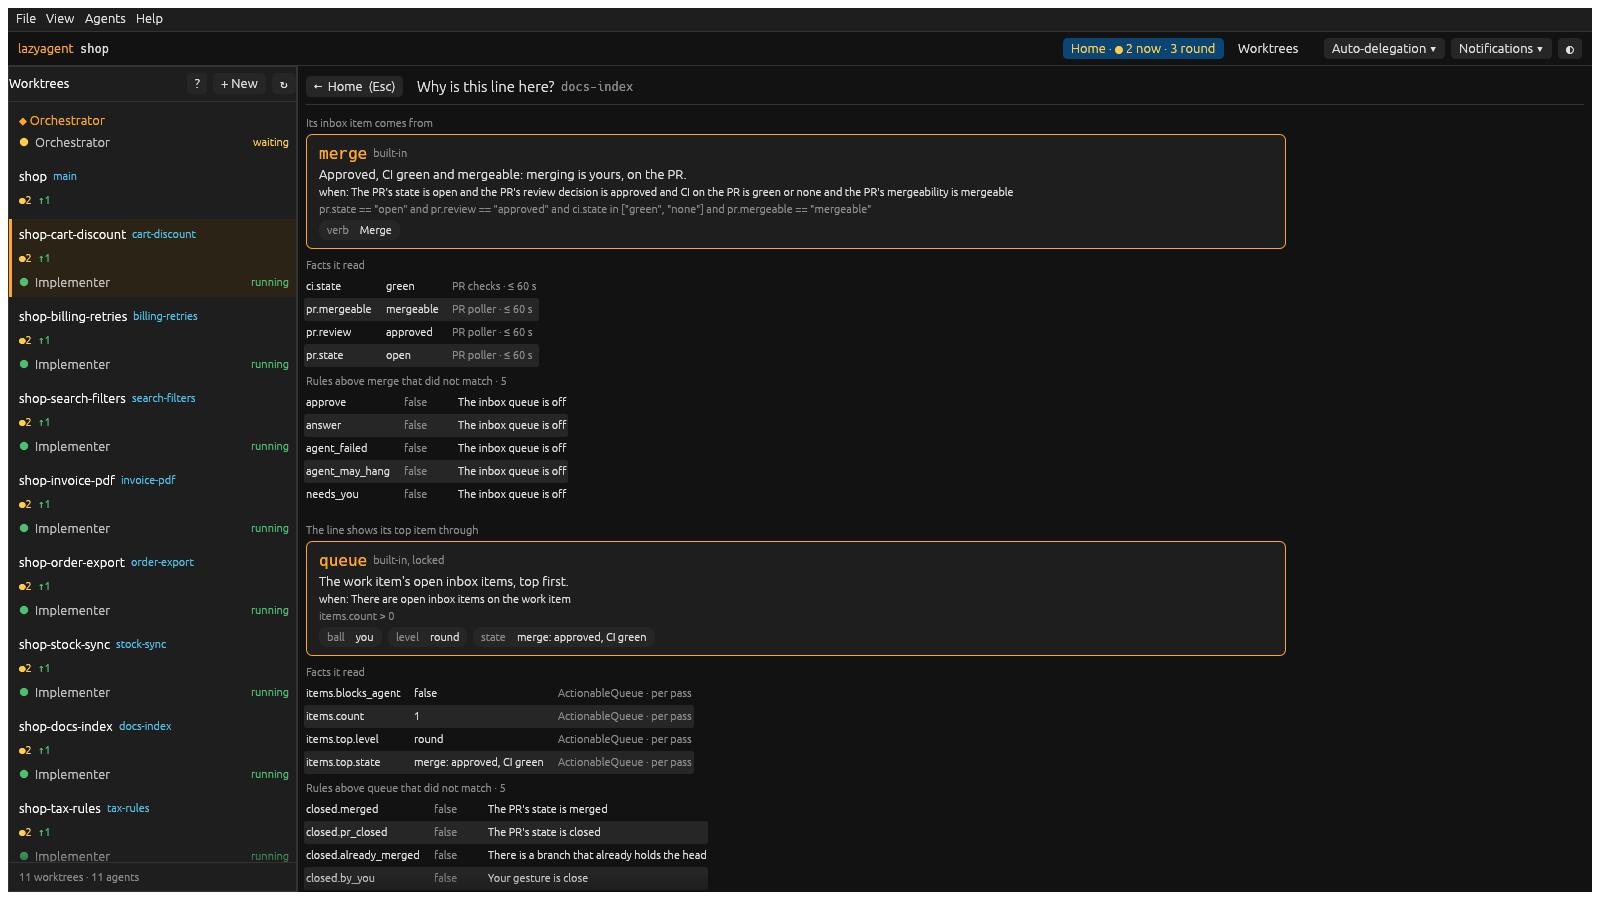
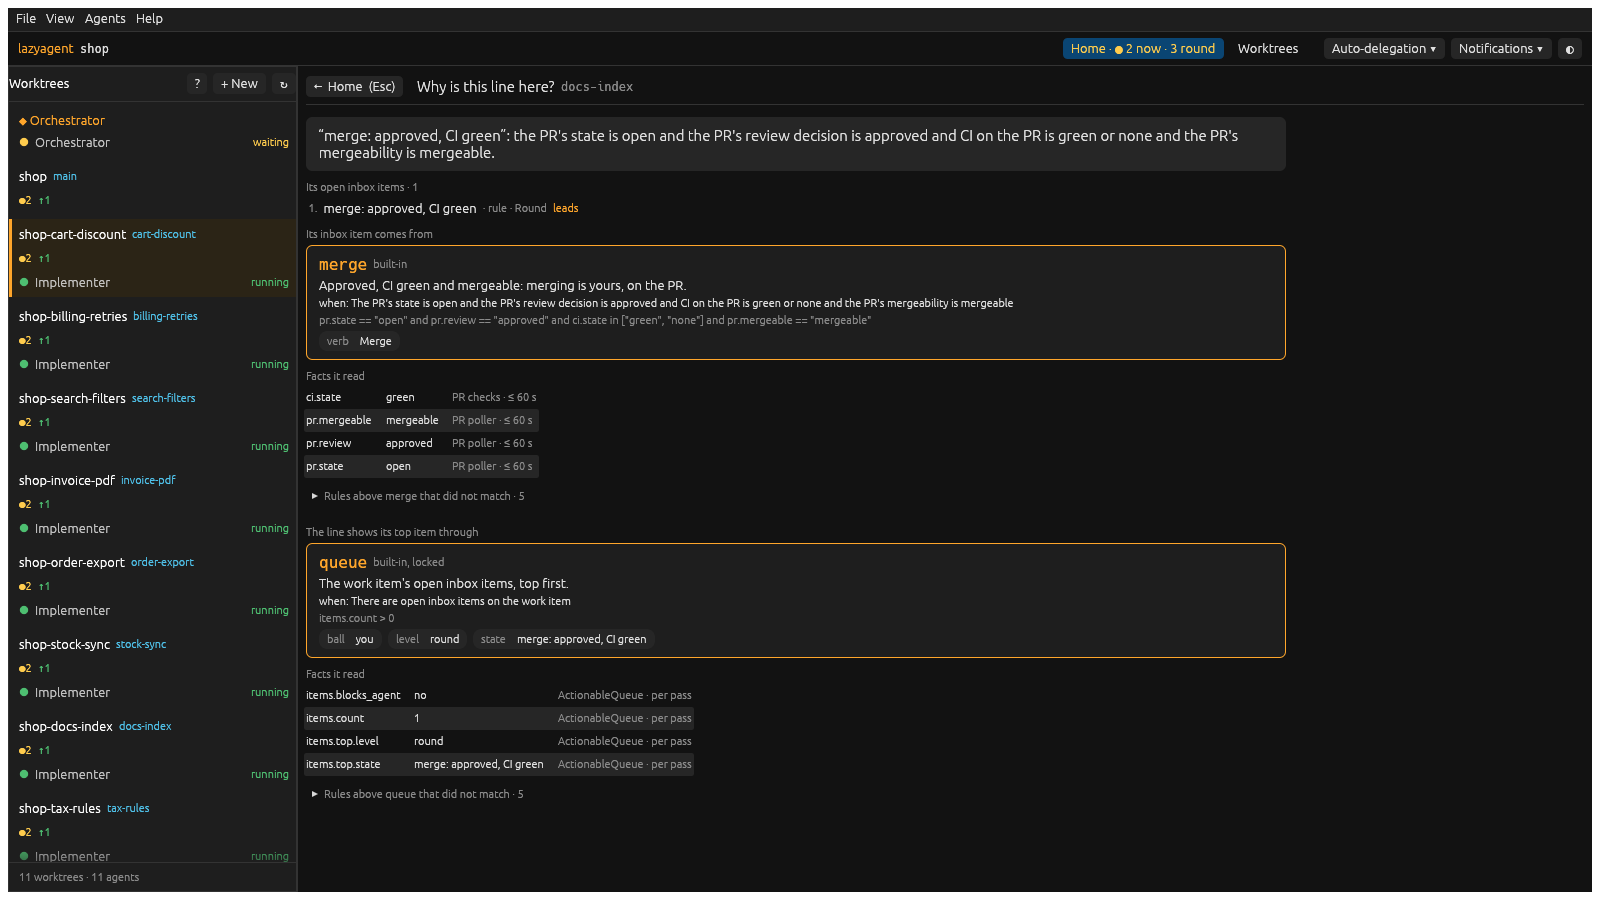
docs: I4f as landed, the Home guide's key changes, screenshots

Changed region(s): [[0.1875, 0.1244, 0.7812, 0.56], [0.1875, 0.5911, 0.4375, 0.9956]]

diff --git a/docs/design/inbox-plan.md b/docs/design/inbox-plan.md
@@ -23,6 +23,7 @@
 | I8a | `inbox-i8a-github-issues` | **MVP, alongside I2.** `TrackerAdapter` protocol and registry (entry point `lazyagent.trackers`), status mapping, polling with cache/ETag/caps, credentials by env/keyring, `trackers.toml` (global + per repo); the **GitHub Issues** adapter (via `gh`) with `fetch` and `assigned_to_me`; row enrichment and the "N not started" counter from I1's rows; edge-triggered inbox rules wired into I2's queue once it lands (§7b) | With GitHub Issues on, a branch `fix-123-…` whose issue gets the label mapped to "returned" yields a Round item; an issue assigned to the user with no branch adds to "N not started"; with no adapter configured, `status_list` output is byte-identical |
 | I8b | `inbox-i8b-jira` | **MVP, alongside I3.** The **Jira** adapter, complete and marked experimental: Jira Cloud REST API v3, JQL search with pagination, issue status and transitions (read-only), `assigned_to_me` by JQL, `Retry-After` on 429; tests with recorded fixtures (transitions, JQL search, pagination, 429) | Against the fixtures, a status change into a mapped "returned" status yields one Round item and leaving it clears it; a 429 backs off and keeps the last good value; the adapter is labelled experimental until checked against a real instance |
 | I4e | `inbox-i4e-home-ux-fixes` | **Landed** (§8). Home UX fixes from a developer UX review and the owner's answers: approvals (`approval_answer`, y / n) and free-text questions (`question_answer`) answered on the line, a brief's 1-4 + Ctrl+Enter on its expanded row; ages from the last real activity; ⇧ keys, zone jumps, Tab, Esc, a pinned key bar, Undo (5 s) and real confirmations; "N round (+M next)"; the orchestrator strip; imperative labels | An approval is answered with y from Home only while its prompt is on screen; a stalled branch committed 3 days ago reads 3d after an engine restart; ⇧X closes and stops the agent and says so first |
+| I4f | `inbox-i4f-ux-fixes` | **Landed** (§8). Home fixes from a second UX review (accepted by the owner) and an I7 bug: a deep item under a quicker top one counts in To sit down with (a ghost line); ages from real activity, never the engine's start; stale rows folded with their dirty files; `a` approve / `⇧D` deny (with Undo), `y` explain and `n` notes everywhere, a contextual key bar; the Why? view answers in one sentence; a busy head's red runs read on their own, other providers' checks named; parked rows say until when | A changes requested under a red CI shows in To sit down with and the counts agree; a Merge approved 20 days ago reads 20d; a red `label-gate` run older than the repo's latest 100 runs gets its log |
 | later | — | **Multi-repo Home** (one Home over every repo's engine; the owner's I4e answer (a): not in I4e); rounds as notifications at cut points, Focus mode, backpressure (Round > 7 stops new work), ntfy notifier; **opt-in auto-delegation of stalled items to the owner agent** (0012 A3 trimmed, §7; may come as early as I4, Q-B33); hook nudge for briefs (Q-B34 c); opt-in compiled-in wake rules for the orchestrator (§5c). Never in the core: an always-on autonomous manager loop | — |
 
 Each phase is its own branch from up-to-date `develop`, merged with `--no-ff` once `uv run pytest` and (for desktop phases) `cargo fmt --check`, `cargo clippy --all-targets -- -D warnings` and `cargo test` are green. Every phase updates the docs it changes (engine-split §4d/§4e/§4g, ui-plan §3b, desktop-app D4, this plan §8, proposal status).
@@ -708,6 +709,23 @@ Q-B34. Workers get no system prompt today; only the orchestrator does (`orchestr
   - Not done: `WorkItems.link` scans every record for every row (feeders' tasks); an index there is the next step if feeders grow.
 - **`__version__` without importlib.metadata.** `hatch_build.py` puts `lazyagent/_version.py` in every wheel from a temp file (the platform wheels build from a read-only mount, where hatch's own `version` hook failed), and writes it into `src/` for an editable install (gitignored); `importlib.metadata` stays the fallback for a tree no build ran in. `lazyagent --version` is new. Tests install a wheel and an editable tree into fresh venvs and check `__version__`, the dist metadata and `--version`. `import lazyagent`: **51 → 19 ms** wall (a bare interpreter: 12-17 ms); `-X importtime` cumulative 30 → 0.2 ms. The MCP server's start stays ~450 ms: the `mcp` package is most of it.
 - **Timing tests under load.** `test_it_starts_fast` takes the median of 7 runs per round, up to 5 rounds; a round passes under 150 ms (times the CI factor) or under 3x a bare interpreter timed in the same round. At load 30 on 20 cores the hook took ~185 ms, 1.6x bare (the old best-of-3 under 150 ms failed); a hook importing textual takes 14x and fails every round. `tests/bench.py` holds what the timing tests share: the CI factor and an allowance per round, the larger of it and how slow the machine runs right now (a fixed workload against its idle time). The rules bench and the new status benchmarks use it.
+
+**I4f** (`inbox-i4f-ux-fixes`; Home fixes from a second developer UX review, whose recommendations the owner accepted, and an I7 bug; engine and desktop):
+
+- **A deep item under a quicker one.** A row's `needs_you` gains `items` (every open item, top first: `id, kind, level, state, since`). `counts.deep` counts the inbox rows with a deep item, the top one or under it (`status.has_deep`), so a changes requested under a red CI is counted; `actionables_list` still counts items. Home draws it as a ghost line in To sit down with (`↳ Address review · tax · changes requested · under its Fix CI in the Round`, dimmed, not a key stop; a click opens the line), and its header counts it (`Home::deep_count`, the engine's number). "2 items" reads `+ changes requested`; the expanded line lists every item and says which one leads.
+- **Ages from real activity.** A PR item (`ci`, `review`, `conflict`, an item rule's `rule`: the built-in Merge) first seen on the pass where the row's PR info is new (the engine's start, the poller's first answer) takes the row's `activity_at` as its `since` (`ActionableQueue.found_at`), not now; one that happens while the engine runs still dates from then. A row whose fingerprint changes only because PR info came in keeps `activity_at` as its `changed_at` (`_Seen.pr`), a first-seen row seeds from it too, and a parked row's age is its park's `at`. A detached worktree gets its head commit's time (`git show -s --format=%ct`, once per sha).
+- **Stale rows** stay in `status_list {include_done}` as before and gain `dirty` (the worktree's uncommitted files, once git status is known). Home folds them into `N stale · M uncommitted files ▸` at the very end of In flight (after "done today"), the state reading `no activity · 13 uncommitted files`; they never vanish.
+- **Keys.** `a` approves and `⇧D` denies an approval (`a` only when not after `g`); `y` is always explain and `n` always notes. A deny waits `UNDO_FOR` (5 s) client-side, with the Undo bar (`Denying pdf: rm -rf build/ …  Undo (Ctrl+Z)`), then sends `approval_answer {allow: false}` (`State::tick_deny`; another gesture's Undo sends a waiting deny first). The key bar is one truncated line of its own with only the selected line's keys (at most 8, `line_keys`) and `? all keys`; its hover lists all of them. `concepts.toml` writes letters as typed (`x`, not `X`), the `answer` action says Enter expands the line (approve or answer there) and `close` that it stops the agent; the Park card and Undo say so too.
+- **Why? for the user.** `rules_explain` gains `answer`, one sentence with its values (`“no activity”: the time since the last sign of work (2 d 6 h) is over the stalled threshold (24 h).`; for the queue, which item leads and what else is open), and each fact `shown` (`doc.shown`: durations as `2 d 6 h` / `24 h`, times as `3 h ago`, enums without underscores, unknown). `lazyagent status --why` prints the answer first. The view shows the answer on top, then the items with the leader marked, then the rule card; "Rules above … that did not match" is folded with its unknown count, unknown ones (and the user's) first.
+- **I7: CI red with no log.** On a busy repo the repo's latest 100 runs are newer runs of other branches and of a quick workflow on the head, so the head's red runs fell out of the window and every CI line had `run: null`. Each open PR whose checks are red now gets its own read, `actions/runs?head_sha=<sha>` with an ETag, up to `HEAD_PAGES` (3) pages of 100, at most `MAX_HEAD_FETCHES` (5) heads a poll (the per-minute cap still holds); its runs join the window's (`ActionsHub.all_runs`) and the latest run per workflow on the head still decides, so a red `label-gate` and a red evals run are found next to newer green runs. A head no longer red is dropped. `ci_log_summary {key}` gains `checks`: the failing checks that are not Actions runs (`actions.other_checks`; the provider from the URL's host: CircleCI, Buildkite, …, "a GitHub App (not Actions)", "a commit status with no link"), and with no red Actions run its error reads `no Actions log: check e2e-suite from CircleCI`. Home asks for it on a CI line with no run too (once, as run `(0, 0)`) and shows each check with "open the check".
+- **Delegate only to a live agent.** "Delegate to its agent (d)" shows only when the row has a live agent; otherwise "Restore agent and delegate" (a restorable entry there: `restore_agents {ids}`, then the delegation) or "Spawn an agent for this" (`spawn_agent`, then the delegation; the engine sends the line once the agent's turn is over). `d` on such a line says which button to use and opens the line (it never spawns on one key).
+- **In flight.** A running agent's line reads `working · <its last status_report, else its notes' line>`; the age is only in the age column. A detached head is named by its worktree's directory (desktop `row_name`, the CLI's `item_name`). The orchestrator's ball: the catalog's `ball_text` reads `orchestrator` for `claim`, `hold` and `held` (`doc.ORCHESTRATOR_RULES`; the row's `ball` stays `agent`), so How it works says what the screen says; a delegation still reads `agent`.
+- **Parked** rows say until when (`parked indefinitely`, was `parked`; `parked until 18:00`; `parked until CI ends`) and, while an item is still the user's, `· needs you: conflict with base`.
+- **Minor.** Merge's first button is "Open PR to merge (p)" (the plain PR button goes); How it works frames its screenshots (a matte, a shadow, a "screenshot" tag, slightly dimmed) and its state tables fit four columns at any width (the key column was cut at 1100 px); timeline entries are not added twice after an engine restart (`overlay._repeat`: the same commit ref, or the newest `ci` / `review` / `ball` / `state` entry by the same actor saying the same); a ball change reads `with the agent (was stalled): working`; "Orchestrator not running" has "Start the orchestrator" (`spawn_agent {kind: orchestrator}`), and the pass hint wraps on a line of its own.
+- Schemas: `status_row.needs_you.items`, `status_row.dirty`, `counts.deep`'s meaning, `ci_log_summary.result.checks` and its error, `rules_explain.result.answer` and the facts' `shown`. Golden fixtures changed deliberately: `status_list/{rows, fields, include_done}`, `status_gesture/{close, park_the_work_item_indefinitely}`, `rules_explain/{merge, a_global_rule_removes_merge}`, `ci_log_summary/{a_red_run, not_red}`, `rules_catalog/builtin`. Desktop `proto`: `NeedsYou.items` (`NeedsYouItem`), `StatusRow.dirty`, `CiLogSummary.checks` (`OtherCheck`), `RulesExplain.answer`, `ExplainFact.shown`, all optional.
+- Screenshots: [Home dark 1600](desktop-screenshots/i4f-home-dark-1600.png), [Home light 1100](desktop-screenshots/i4f-home-light-1100.png), [the CI line with no Actions log, dark](desktop-screenshots/i4f-ci-expanded-dark-1600.png) and [light](desktop-screenshots/i4f-ci-expanded-light-1100.png), [a deny's Undo](desktop-screenshots/i4f-deny-undo-dark-1600.png), [Why?](desktop-screenshots/i4f-why-dark-1600.png), rendered by the `home_i4f_screenshots` test; the How it works screenshots and the page's own shots regenerated.
+- Tests: `tests/engine/test_home_ux_review.py` (18: the deep count and items, a parked row's deep item not counted, a Merge found at the start dated from activity, an item that happens later dated then, late PR info keeping an in-flight age, a park's age and text, stale `dirty`, a detached head's name and age, a busy head's runs read on their own across 3 pages with a 304 after and dropped when green, the projection's red heads and a log summary naming both runs, a commit status and another provider's check, providers by host, timeline dedupe after a restart in the overlay and through a restarted projection, the Why answer for a stalled row and for the queue, durations and shown values, the orchestrator's ball text), `tests/engine/fake_gh.py` answering `head_sha=` reads in pages. Desktop: `tests/i4f.rs` (9, against `Conn::fake`: the ghost line and its count, the stale fold, a CI red with no Actions run, restore- and spawn-then-delegate, the Why answer and the folded rules, Merge's first button and a parked line, a detached head, starting the orchestrator, the screenshots), the approval test rewritten for `a` / `⇧D` with the deny's Undo and `y` / `n`, the key bar test for the contextual bar, the page's key test for letters as typed.
+- Not in I4f (out of scope): sidebar changes, PR titles instead of slugs, multi-repo Home. Not done: per-item dismiss buttons in the expanded item list (the line's own buttons act on its top item); the orchestrator queue folded to "N in its queue".
 
 ---
 

diff --git a/docs/guides/how-lazyagent-works.md b/docs/guides/how-lazyagent-works.md
@@ -108,8 +108,8 @@ Keep your inbox to what you can act on today.
 
 - **Park  z**: 1 h, tomorrow, a week, until something changes, indefinitely.
 - **Label  l**: Who has the ball and why: others · QA.
-- **Close  ⇧X**: Done or dropped. Never touches the worktree, branch or PR.
-- **Undo**: x, z, d and ⇧O show Undo for 5 s (Ctrl+Z).
+- **Close  ⇧X**: Done or dropped; stops its agent. Never touches the worktree, branch or PR.
+- **Undo**: x, z, d, ⇧O and ⇧D (deny) show Undo for 5 s (Ctrl+Z).
 
 ![The park menu: until when, for this item or the whole work item.](../../desktop/crates/app/assets/how/park.png)
 
@@ -137,8 +137,8 @@ Each line's state comes from the first rule that matches, top to bottom. An unkn
 
 | verb | state | when | key |
 |---|---|---|---|
-| **Approve** | approve: ‹the agent's detail line› | The agent's status is waiting for approval | `Enter` Opens the agent's terminal at its dialog |
-| **Answer** | answer: ‹the agent's detail line› | The agent's status is waiting for user | `Enter` Opens the agent's terminal at its dialog |
+| **Approve** | approve: ‹the agent's detail line› | The agent's status is waiting for approval | `Enter` Expands the line: approve (a) or deny (⇧D) a command there, type an answer to a question |
+| **Answer** | answer: ‹the agent's detail line› | The agent's status is waiting for user | `Enter` Expands the line: approve (a) or deny (⇧D) a command there, type an answer to a question |
 
 ### Round
 
@@ -174,9 +174,9 @@ Each line's state comes from the first rule that matches, top to bottom. An unkn
 
 | verb | state | when | key |
 |---|---|---|---|
-| agent | orchestrator · looking | You passed it to the orchestrator |  |
-| agent | orchestrator · (holding / ‹the orchestrator's hold note›) | The orchestrator holds it |  |
-| agent | orchestrator · looking | Who holds a routed item here is orchestrator |  |
+| orchestrator | orchestrator · looking | You passed it to the orchestrator |  |
+| orchestrator | orchestrator · (holding / ‹the orchestrator's hold note›) | The orchestrator holds it |  |
+| orchestrator | orchestrator · looking | Who holds a routed item here is orchestrator |  |
 | agent | agent ‹the agent it was delegated to› · fixing (it / ‹what the agent is fixing›) | The delegation's phase is on it |  |
 | ‹your label's ball› | (the state below) | Your gesture is label |  |
 | agent | fixing CI / starting / working | There are agents at work |  |
@@ -220,9 +220,9 @@ First match wins. *queue off*: rules for an engine without the inbox queue.
 | 4 | `closed.by_you` (locked) | done | dropped by you / closed by you | Your gesture is close |
 | 5 | `park` (locked) | (the ball below) | waiting: ‹reason› / waiting (‹board›) / parked until ‹when› / parked: ‹reason› | Your gesture is park |
 | 6 | `queue` (locked) | you | ‹the top inbox item's state› | There are open inbox items on the work item |
-| 7 | `claim` (locked) | agent | orchestrator · looking | You passed it to the orchestrator |
-| 8 | `hold` (locked) | agent | orchestrator · (holding / ‹the orchestrator's hold note›) | The orchestrator holds it |
-| 9 | `held` (locked) | agent | orchestrator · looking | Who holds a routed item here is orchestrator |
+| 7 | `claim` (locked) | orchestrator | orchestrator · looking | You passed it to the orchestrator |
+| 8 | `hold` (locked) | orchestrator | orchestrator · (holding / ‹the orchestrator's hold note›) | The orchestrator holds it |
+| 9 | `held` (locked) | orchestrator | orchestrator · looking | Who holds a routed item here is orchestrator |
 | 10 | `delegated` (locked) | agent | agent ‹the agent it was delegated to› · fixing (it / ‹what the agent is fixing›) | The delegation's phase is on it |
 | 11 | `approve` *queue off* | you | approve: ‹the agent's detail› | The inbox queue is off and the agents' statuses include waiting for approval |
 | 12 | `answer` *queue off* | you | answer: ‹the agent's detail› | The inbox queue is off and the agents' statuses include waiting for user |
@@ -257,8 +257,8 @@ What can land in your inbox, at which level, and the verb it shows.
 
 | verb | item | level | class | blocks an agent | key |
 |---|---|---|---|---|---|
-| **Approve** | Needs approval | now | quick | yes | `Enter` Opens the agent's terminal at its dialog |
-| **Answer** | Question | now | quick | yes | `Enter` Opens the agent's terminal at its dialog |
+| **Approve** | Needs approval | now | quick | yes | `Enter` Expands the line: approve (a) or deny (⇧D) a command there, type an answer to a question |
+| **Answer** | Question | now | quick | yes | `Enter` Expands the line: approve (a) or deny (⇧D) a command there, type an answer to a question |
 | **Check agent** | Hanged? | round | quick |  |  |
 | **Relaunch** | Failed | round | quick |  |  |
 | **Relaunch** | Exited | round | quick |  |  |
@@ -280,34 +280,34 @@ Single letters act on the selected line. Shifted keys ask first or are bigger.
 
 | key | does |
 |---|---|
-| `J K ↓ ↑` | Next / previous line |
+| `j k ↓ ↑` | Next / previous line |
 | `Tab` | Next line that needs you |
 | `1 2 3 4` | Jump to Now, Round, To sit down with, In flight (on a brief: pick an option) |
-| `Enter` | Expand; open a brief; a Now line's terminal |
+| `Enter` | Expand (approve or answer there); open a brief |
 | `Esc` | Close the form, else collapse |
-| `Y  N` | On an approval: approve / deny |
+| `a  ⇧D` | On an approval: approve / deny (deny waits 5 s for Undo) |
 | `Ctrl+Enter` | On an expanded brief: answer |
-| `V` | The decision view |
-| `Y  ⇧Y` | Explain this / restore its agent and explain |
-| `W` | Why is this line here? |
-| `O` | The agent's terminal |
-| `N` | Its session notes |
-| `P` | Its PR (or tracker task) |
-| `X` | Dismiss the item (Undo 5 s) |
-| `Z` | Park: 1 h, tomorrow, a week, on change, indefinitely (1-5; W whole work item) |
+| `v` | The decision view |
+| `y  ⇧Y` | Explain this / restore its agent and explain |
+| `w` | Why is this line here? |
+| `o` | The agent's terminal |
+| `n` | Its session notes |
+| `p` | Its PR (or tracker task) |
+| `x` | Dismiss the item (Undo 5 s) |
+| `z` | Park: 1 h, tomorrow, a week, on change, indefinitely (1-5; w whole work item) |
 | `⇧Z` | Show / hide Parked |
 | `⇧F` | Show / hide done today |
 | `⇧O` | Pass to the orchestrator (Undo 5 s) |
-| `U` | Take back a pass or hold; clear your label, park, close or delegation |
-| `D` | Delegate to the branch's agent (Undo 5 s) |
-| `L` | Label who has the ball |
+| `u` | Take back a pass or hold; clear your label, park, close or delegation |
+| `d` | Delegate to the branch's agent (Undo 5 s) |
+| `l` | Label who has the ball |
 | `⇧X` | Close the work item and stop its agent (asks first) |
-| `M  ⇧M` | Mark seen / everything seen |
+| `m  ⇧M` | Mark seen / everything seen |
 | `⇧U` | Revert the orchestrator's decision (asks first) |
-| `T` | The orchestrator's actions today |
-| `Ctrl+Z` | Undo the last dismiss, park, delegate or pass |
-| `F` | Fold In flight |
-| `G W  G H` | The worktrees / back to Home |
+| `t` | The orchestrator's actions today |
+| `Ctrl+Z` | Undo the last dismiss, park, delegate, pass or deny |
+| `f` | Fold In flight |
+| `g w  g h` | The worktrees / back to Home |
 | `?` | This page, at Home |
 
 ### The decision view
@@ -317,9 +317,9 @@ Single letters act on the selected line. Shifted keys ask first or are bigger.
 | `1-4` | Pick an option |
 | `Ctrl+Enter` | Answer |
 | `]  [` | Next / previous evidence tab |
-| `Y  ⇧Y` | Explain this / restore its agent and explain |
-| `B` | Request a new brief |
-| `O` | The agent's terminal |
+| `y  ⇧Y` | Explain this / restore its agent and explain |
+| `b` | Request a new brief |
+| `o` | The agent's terminal |
 | `⇧U` | Revert the orchestrator's decision |
 | `Esc` | Back to Home |
 
@@ -340,7 +340,7 @@ Single letters act on the selected line. Shifted keys ask first or are bigger.
 
 | action | key | does |
 |---|---|---|
-| `answer` | `Enter` | Opens the agent's terminal at its dialog |
+| `answer` | `Enter` | Expands the line: approve (a) or deny (⇧D) a command there, type an answer to a question |
 | `expand` | `Enter` | Expands the line |
 | `open_terminal` | `o` | The agent's terminal |
 | `open_notes` | `n` | The agent's notes |
@@ -349,7 +349,7 @@ Single letters act on the selected line. Shifted keys ask first or are bigger.
 | `dismiss` | `x` | Dismiss this occurrence of the item |
 | `park` | `z` | Park the item or the work item |
 | `label` | `l` | Put a ball and a text on the row |
-| `close` | `⇧X` | Close the work item (done / dropped) |
+| `close` | `⇧X` | Close the work item (done / dropped) and stop its agent |
 | `take_back` | `u` | Take back a pass, or clear your gesture |
 | `pass` | `⇧O` | Pass to orchestrator |
 | `delegate` | `d` | Send the item to the branch's agent |

diff --git a/docs/guides/home.md b/docs/guides/home.md
@@ -4,4 +4,6 @@ The desktop app opens on **Home**: one line per work item, what needs you first.
 
 Its guide is now **[How lazyagent works](how-lazyagent-works.md)**: the zones, the ball, every state, verb and action with its key, your rules and the facts, with screenshots. That page is generated from the rules catalog by `lazyagent rules doc --write`, so it never drifts from what the engine does; the same page is in the app (Help → How lazyagent works, `F1`; `?` on Home opens it at Home).
 
+In short, since the second UX review: `a` approves and `⇧D` denies an agent's command (a deny waits 5 s for its Undo); `y` explains and `n` opens the notes on every line. The key bar names only the selected line's keys; `?` lists them all. A deep item under a quicker one (a changes requested under a red CI) also shows in To sit down with, and stale worktrees fold at the end of In flight with their uncommitted files.
+
 The design is [proposal 0013](../proposals/0013-inbox-and-status.md) ([inbox-plan.md](../design/inbox-plan.md)) and, for the rules, [proposal 0014](../proposals/0014-rules-catalog.md) ([rules-plan.md](../design/rules-plan.md)).
